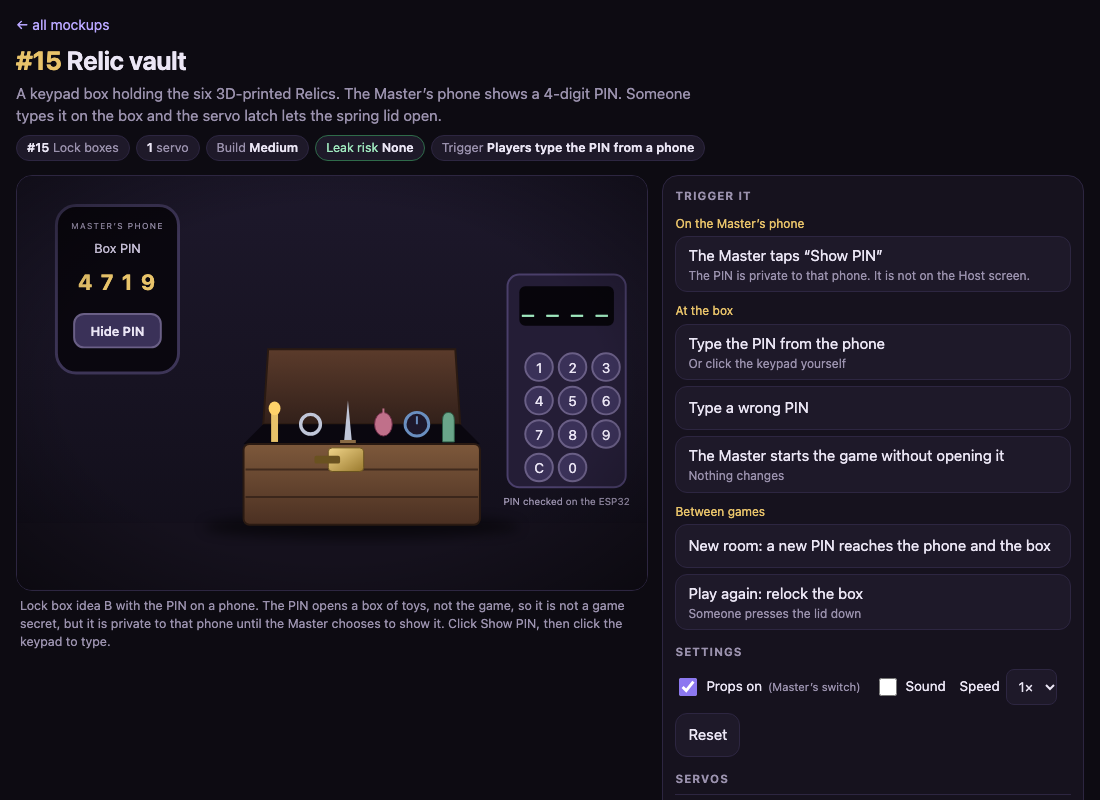
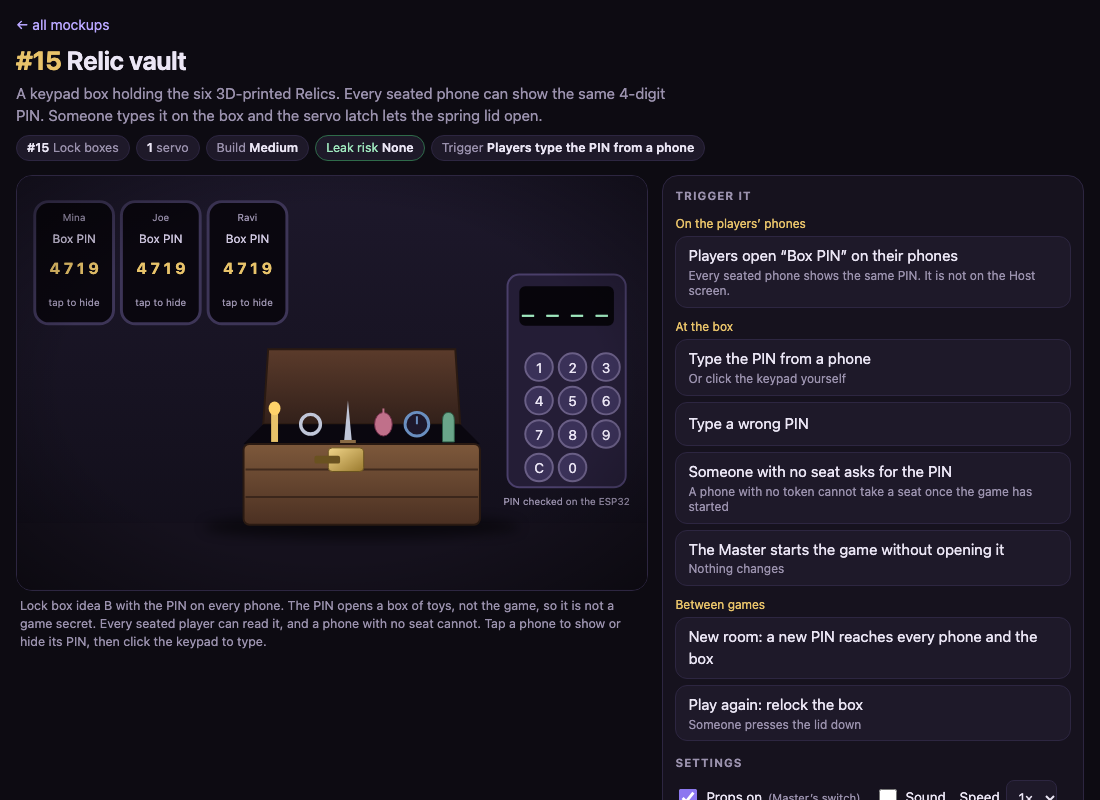
Prop mockups: relic vault PIN on every seated phone
The #15 relic vault now shows the same box PIN on every seated phone, typed on
the keypad on the box, instead of on the Master's phone only. A phone with no
seat gets no PIN (a phone without a token cannot take a seat once the game has
started). The 3D brief, the ideas list and the README say the same, and the
open question about the PIN is closed in the brief. Gallery and screenshots
rebuilt.

diff --git a/tools/prop-mockups/index.html b/tools/prop-mockups/index.html
@@ -1,2 +1,2 @@
 <!doctype html>
-<html lang="en"><head><meta charset="utf-8"><meta name="viewport" content="width=device-width,initial-scale=1"><title>Hauntology prop mockups</title><style>:root{--bg:#0d0b12;--panel:#16121e;--line:#2d2641;--text:#ebe6f5;--mute:#9b92ae;--ghost:#b9a7ff;--gold:#e8c36a}*{box-sizing:border-box}body{margin:0;background:var(--bg);color:var(--text);font:15px/1.45 -apple-system,BlinkMacSystemFont,"Segoe UI",Roboto,Helvetica,Arial,sans-serif}.w{max-width:1180px;margin:0 auto;padding:20px 16px 60px}h1{margin:0 0 4px;font-size:28px}h2{margin:26px 0 10px;font-size:13px;letter-spacing:.09em;text-transform:uppercase;color:var(--mute)}.lead{color:var(--mute);max-width:75ch;margin:0 0 12px}button{font:inherit;color:var(--text);background:var(--panel);border:1px solid var(--line);border-radius:12px;padding:8px 14px;min-height:44px;cursor:pointer}button:hover{border-color:var(--ghost)}.grid{display:grid;grid-template-columns:repeat(auto-fill,minmax(270px,1fr));gap:12px}.c{display:block;background:var(--panel);border:1px solid var(--line);border-radius:14px;overflow:hidden;color:inherit;text-decoration:none}.c:hover{border-color:var(--ghost)}.c img,.ph{display:block;width:100%;aspect-ratio:11/8;object-fit:cover;background:#100d17}.b{padding:10px 12px 12px}.b h3{margin:0 0 4px;font-size:16px}.b h3 span{color:var(--gold)}.b p{margin:0 0 8px;color:var(--mute);font-size:13.5px}.t{display:flex;gap:6px;flex-wrap:wrap}.t i{font-style:normal;font-size:12px;padding:2px 8px;border-radius:99px;border:1px solid var(--line);color:var(--mute)}.t i.none{border-color:#2f6b4a;color:#9fe8be}.t i.low{border-color:#7a6a2e;color:#f0d98a}.t i.high{border-color:#8a3a3a;color:#ffb0b0}</style></head><body><div class="w"><h1>Hauntology prop mockups</h1><p class="lead">Each page is standalone: open it, press the buttons on the right, and watch what the ESP32 would do. These are drawings with the game rules built in. Nothing here is real hardware, and nothing is connected to the game.</p><button id="s">Sort the props by my rank</button><h2>Props</h2><div class="grid" data-g="Props"><a class="c" data-rank="2" data-num="1" href="mockups/01-ghost-in-box.html"><img loading="lazy" alt="" src="shots/01-ghost-in-box.png"><div class="b"><h3><span>#1</span> Ghost in the box</h3><p>A ghost pops out of a box when a Haunt Event fires. One servo moves a lever: first the lid, then the ghost. The lid cracks open while a Poltergeist chooses.</p><div class="t"><i>rank 2</i><i>1 servo</i><i class="none">leak None</i></div></div></a><a class="c" data-rank="1" data-num="3" href="mockups/03-haunt-needle.html"><img loading="lazy" alt="" src="shots/03-haunt-needle.png"><div class="b"><h3><span>#3</span> Haunt needle</h3><p>A gauge needle shows the Haunt. It steps up with an overshoot, shakes at 3, 6 and 9, and pins at the maximum. State drives the needle, so it survives a Wi-Fi drop.</p><div class="t"><i>rank 1</i><i>1 servo</i><i class="none">leak None</i></div></div></a><a class="c" data-rank="5" data-num="5" href="mockups/05-haunting-flipper.html"><img loading="lazy" alt="" src="shots/05-haunting-flipper.png"><div class="b"><h3><span>#5</span> Haunting flipper</h3><p>Each seat has a pawn on a flap. When an Accusation is sealed an envelope appears. At the Round-end reveal, every wrong one flips to its ghost side. The player stays in the game.</p><div class="t"><i>rank 5</i><i>6 servos</i><i class="none">leak None</i></div></div></a><a class="c" data-rank="3" data-num="9" href="mockups/09-curtain-reveal.html"><img loading="lazy" alt="" src="shots/09-curtain-reveal.png"><div class="b"><h3><span>#9</span> Curtain reveal</h3><p>A small stage curtain opens when the game ends and reveals the Solution on a little screen. One servo pulls both panels with a thread loop. Switch to the backstage view to see the build.</p><div class="t"><i>rank 3</i><i>1 servo</i><i class="none">leak None</i></div></div></a><a class="c" data-rank="4" data-num="12" href="mockups/12-rattle-chandelier.html"><img loading="lazy" alt="" src="shots/12-rattle-chandelier.png"><div class="b"><h3><span>#12</span> Rattle prop: bats</h3><p>A hanging prop moves when a player who joined the haunting shakes their phone. The number of Rattles in a Turn picks a creak, a wind or a rumble. Bats are the pick. The chandelier and the doll are in the select only to compare.</p><div class="t"><i>rank 4</i><i>1 servo</i><i class="none">leak None</i></div></div></a></div><h2>Lock boxes</h2><div class="grid" data-g="Lock boxes"><a class="c" data-rank="99" data-num="15" href="mockups/15-relic-vault.html"><img loading="lazy" alt="" src="shots/15-relic-vault.png"><div class="b"><h3><span>#15</span> Relic vault</h3><p>A keypad box holding the six 3D-printed Relics. The Master’s phone shows a 4-digit PIN. Someone types it on the box and the servo latch lets the spring lid open.</p><div class="t"><i>1 servo</i><i class="none">leak None</i></div></div></a></div><h2>Puzzle inputs</h2><div class="grid" data-g="Puzzle inputs"><a class="c" data-rank="99" data-num="20" href="mockups/20-cut-wires.html"><img loading="lazy" alt="" src="shots/20-cut-wires.png"><div class="b"><h3><span>#20</span> Cut wires board</h3><p>Five real coloured wires and five numbered terminals for the Cut wires puzzle. The phone shows the fuse box seen earlier. The player drags each plug to a terminal and presses Set.</p><div class="t"><i>0 servos</i><i class="low">leak Low</i></div></div></a></div><script>var b=document.getElementById("s"),by="num";b.onclick=function(){by=by==="num"?"rank":"num";b.textContent=by==="num"?"Sort the props by my rank":"Sort the props by number";var g=document.querySelector('[data-g="Props"]');if(!g)return;Array.prototype.slice.call(g.children).sort(function(x,y){return x.dataset[by]-y.dataset[by]}).forEach(function(c){g.appendChild(c)})}</script></div></body></html>
+<html lang="en"><head><meta charset="utf-8"><meta name="viewport" content="width=device-width,initial-scale=1"><title>Hauntology prop mockups</title><style>:root{--bg:#0d0b12;--panel:#16121e;--line:#2d2641;--text:#ebe6f5;--mute:#9b92ae;--ghost:#b9a7ff;--gold:#e8c36a}*{box-sizing:border-box}body{margin:0;background:var(--bg);color:var(--text);font:15px/1.45 -apple-system,BlinkMacSystemFont,"Segoe UI",Roboto,Helvetica,Arial,sans-serif}.w{max-width:1180px;margin:0 auto;padding:20px 16px 60px}h1{margin:0 0 4px;font-size:28px}h2{margin:26px 0 10px;font-size:13px;letter-spacing:.09em;text-transform:uppercase;color:var(--mute)}.lead{color:var(--mute);max-width:75ch;margin:0 0 12px}button{font:inherit;color:var(--text);background:var(--panel);border:1px solid var(--line);border-radius:12px;padding:8px 14px;min-height:44px;cursor:pointer}button:hover{border-color:var(--ghost)}.grid{display:grid;grid-template-columns:repeat(auto-fill,minmax(270px,1fr));gap:12px}.c{display:block;background:var(--panel);border:1px solid var(--line);border-radius:14px;overflow:hidden;color:inherit;text-decoration:none}.c:hover{border-color:var(--ghost)}.c img,.ph{display:block;width:100%;aspect-ratio:11/8;object-fit:cover;background:#100d17}.b{padding:10px 12px 12px}.b h3{margin:0 0 4px;font-size:16px}.b h3 span{color:var(--gold)}.b p{margin:0 0 8px;color:var(--mute);font-size:13.5px}.t{display:flex;gap:6px;flex-wrap:wrap}.t i{font-style:normal;font-size:12px;padding:2px 8px;border-radius:99px;border:1px solid var(--line);color:var(--mute)}.t i.none{border-color:#2f6b4a;color:#9fe8be}.t i.low{border-color:#7a6a2e;color:#f0d98a}.t i.high{border-color:#8a3a3a;color:#ffb0b0}</style></head><body><div class="w"><h1>Hauntology prop mockups</h1><p class="lead">Each page is standalone: open it, press the buttons on the right, and watch what the ESP32 would do. These are drawings with the game rules built in. Nothing here is real hardware, and nothing is connected to the game.</p><button id="s">Sort the props by my rank</button><h2>Props</h2><div class="grid" data-g="Props"><a class="c" data-rank="2" data-num="1" href="mockups/01-ghost-in-box.html"><img loading="lazy" alt="" src="shots/01-ghost-in-box.png"><div class="b"><h3><span>#1</span> Ghost in the box</h3><p>A ghost pops out of a box when a Haunt Event fires. One servo moves a lever: first the lid, then the ghost. The lid cracks open while a Poltergeist chooses.</p><div class="t"><i>rank 2</i><i>1 servo</i><i class="none">leak None</i></div></div></a><a class="c" data-rank="1" data-num="3" href="mockups/03-haunt-needle.html"><img loading="lazy" alt="" src="shots/03-haunt-needle.png"><div class="b"><h3><span>#3</span> Haunt needle</h3><p>A gauge needle shows the Haunt. It steps up with an overshoot, shakes at 3, 6 and 9, and pins at the maximum. State drives the needle, so it survives a Wi-Fi drop.</p><div class="t"><i>rank 1</i><i>1 servo</i><i class="none">leak None</i></div></div></a><a class="c" data-rank="5" data-num="5" href="mockups/05-haunting-flipper.html"><img loading="lazy" alt="" src="shots/05-haunting-flipper.png"><div class="b"><h3><span>#5</span> Haunting flipper</h3><p>Each seat has a pawn on a flap. When an Accusation is sealed an envelope appears. At the Round-end reveal, every wrong one flips to its ghost side. The player stays in the game.</p><div class="t"><i>rank 5</i><i>6 servos</i><i class="none">leak None</i></div></div></a><a class="c" data-rank="3" data-num="9" href="mockups/09-curtain-reveal.html"><img loading="lazy" alt="" src="shots/09-curtain-reveal.png"><div class="b"><h3><span>#9</span> Curtain reveal</h3><p>A small stage curtain opens when the game ends and reveals the Solution on a little screen. One servo pulls both panels with a thread loop. Switch to the backstage view to see the build.</p><div class="t"><i>rank 3</i><i>1 servo</i><i class="none">leak None</i></div></div></a><a class="c" data-rank="4" data-num="12" href="mockups/12-rattle-chandelier.html"><img loading="lazy" alt="" src="shots/12-rattle-chandelier.png"><div class="b"><h3><span>#12</span> Rattle prop: bats</h3><p>A hanging prop moves when a player who joined the haunting shakes their phone. The number of Rattles in a Turn picks a creak, a wind or a rumble. Bats are the pick. The chandelier and the doll are in the select only to compare.</p><div class="t"><i>rank 4</i><i>1 servo</i><i class="none">leak None</i></div></div></a></div><h2>Lock boxes</h2><div class="grid" data-g="Lock boxes"><a class="c" data-rank="99" data-num="15" href="mockups/15-relic-vault.html"><img loading="lazy" alt="" src="shots/15-relic-vault.png"><div class="b"><h3><span>#15</span> Relic vault</h3><p>A keypad box holding the six 3D-printed Relics. Every seated phone can show the same 4-digit PIN. Someone types it on the box and the servo latch lets the spring lid open.</p><div class="t"><i>1 servo</i><i class="none">leak None</i></div></div></a></div><h2>Puzzle inputs</h2><div class="grid" data-g="Puzzle inputs"><a class="c" data-rank="99" data-num="20" href="mockups/20-cut-wires.html"><img loading="lazy" alt="" src="shots/20-cut-wires.png"><div class="b"><h3><span>#20</span> Cut wires board</h3><p>Five real coloured wires and five numbered terminals for the Cut wires puzzle. The phone shows the fuse box seen earlier. The player drags each plug to a terminal and presses Set.</p><div class="t"><i>0 servos</i><i class="low">leak Low</i></div></div></a></div><script>var b=document.getElementById("s"),by="num";b.onclick=function(){by=by==="num"?"rank":"num";b.textContent=by==="num"?"Sort the props by my rank":"Sort the props by number";var g=document.querySelector('[data-g="Props"]');if(!g)return;Array.prototype.slice.call(g.children).sort(function(x,y){return x.dataset[by]-y.dataset[by]}).forEach(function(c){g.appendChild(c)})}</script></div></body></html>

diff --git a/tools/prop-mockups/mockups/15-relic-vault.html b/tools/prop-mockups/mockups/15-relic-vault.html
@@ -405,6 +405,7 @@ svg text{font-family:-apple-system,BlinkMacSystemFont,"Segoe UI",Roboto,Helvetic
 const kx = (i) => 530 + (i % 3) * 34, ky = (i) => 186 + Math.floor(i / 3) * 34;
 const lerp = (a, b, t) => a + (b - a) * t;
 const poly = (t) => '250,252 450,252 ' + lerp(470, 445, t).toFixed(1) + ',' + lerp(272, 176, t).toFixed(1) + ' ' + lerp(230, 255, t).toFixed(1) + ',' + lerp(272, 176, t).toFixed(1);
+const PHONES = [['Mina', 18], ['Joe', 106], ['Ravi', 194]];
 async function press(x, d) {
   const s = x.state;
   if (s.open || s.busy) return;
@@ -425,16 +426,16 @@ const typeCode = async (x, code) => { for (const d of code) { await press(x, d);
 Mock({
   num: 15, title: 'Relic vault', group: 'Lock boxes', leak: 'None', effort: 'Medium',
   trigger: 'Players type the PIN from a phone',
-  summary: 'A keypad box holding the six 3D-printed Relics. The Master’s phone shows a 4-digit PIN. Someone types it on the box and the servo latch lets the spring lid open.',
-  stageNote: 'Lock box idea B with the PIN on a phone. The PIN opens a box of toys, not the game, so it is not a game secret, but it is private to that phone until the Master chooses to show it. Click Show PIN, then click the keypad to type.',
+  summary: 'A keypad box holding the six 3D-printed Relics. Every seated phone can show the same 4-digit PIN. Someone types it on the box and the servo latch lets the spring lid open.',
+  stageNote: 'Lock box idea B with the PIN on every phone. The PIN opens a box of toys, not the game, so it is not a game secret. Every seated player can read it, and a phone with no seat cannot. Tap a phone to show or hide its PIN, then click the keypad to type.',
   servos: { latch: { label: 'Latch servo', rest: 0, max: 90 } },
   svg: `
     <rect x="0" y="352" width="640" height="68" fill="#15111d"/>
-    <rect x="40" y="30" width="124" height="170" rx="20" fill="#0a070f" stroke="#3d3557" stroke-width="3"/>
-    <text x="102" y="54" text-anchor="middle" font-size="8.5" fill="#9b92ae" letter-spacing="1.2">MASTER’S PHONE</text>
-    <text x="102" y="78" text-anchor="middle" font-size="13" fill="#cfc7e0">Box PIN</text>
-    <text id="v15code" x="102" y="116" text-anchor="middle" font-size="22" fill="#e8c36a" font-weight="700" letter-spacing="2">• • • •</text>
-    <g id="v15show" style="cursor:pointer"><rect x="58" y="140" width="88" height="34" rx="10" fill="#3a3158" stroke="#6a5f86" stroke-width="2"/><text id="v15showt" x="102" y="162" text-anchor="middle" font-size="13" fill="#ebe6f5" font-weight="600" pointer-events="none">Show PIN</text></g>
+    ${PHONES.map((p, i) => `<g id="v15p${i}" style="cursor:pointer"><rect x="${p[1]}" y="26" width="80" height="124" rx="14" fill="#0a070f" stroke="#3d3557" stroke-width="3"/>
+      <text x="${p[1] + 40}" y="46" text-anchor="middle" font-size="10" fill="#9b92ae" pointer-events="none">${p[0]}</text>
+      <text x="${p[1] + 40}" y="68" text-anchor="middle" font-size="12" fill="#cfc7e0" pointer-events="none">Box PIN</text>
+      <text id="v15code${i}" x="${p[1] + 40}" y="100" text-anchor="middle" font-size="16" fill="#e8c36a" font-weight="700" pointer-events="none">• • • •</text>
+      <text id="v15tap${i}" x="${p[1] + 40}" y="132" text-anchor="middle" font-size="10" fill="#9b92ae" pointer-events="none">tap to show</text></g>`).join('')}
     <ellipse cx="350" cy="356" rx="160" ry="12" fill="#000" opacity=".5" filter="url(#blur6)"/>
     <polygon id="v15lidB" fill="url(#gWoodD)" stroke="#2a1a12" stroke-width="2" style="display:none"/>
     <polygon points="250,252 450,252 470,272 230,272" fill="#0a070f"/>
@@ -458,10 +459,10 @@ Mock({
     ${KEYS.map((k, i) => k === '' ? '' : `<g id="v15k_${k}" style="cursor:pointer"><circle cx="${kx(i)}" cy="${ky(i) + 8}" r="14" fill="#3a3158" stroke="#6a5f86" stroke-width="2"/><text x="${kx(i)}" y="${ky(i) + 14}" text-anchor="middle" font-size="14" fill="#ebe6f5" pointer-events="none">${k}</text></g>`).join('')}
     <text x="558" y="334" text-anchor="middle" font-size="10" fill="#9b92ae">PIN checked on the ESP32</text>
     <text id="v15wrong" x="558" y="348" text-anchor="middle" font-size="10" fill="#9b92ae"></text>`,
-  state: () => ({ code: '4719', shown: false, entry: '', open: false, busy: false, err: 0, wrong: 0 }),
+  state: () => ({ code: '4719', shown: [false, false, false], entry: '', open: false, busy: false, err: 0, wrong: 0 }),
   init(s, X) {
     KEYS.forEach((k) => { if (k) X.el('v15k_' + k).addEventListener('click', () => X.run((x) => press(x, k), { queue: false })); });
-    X.el('v15show').addEventListener('click', () => X.run(async (x) => { x.state.shown = !x.state.shown; if (x.state.shown) x.priv('The PIN is on that phone only. It is not on the Host screen.'); }, { queue: false }));
+    PHONES.forEach((p, i) => X.el('v15p' + i).addEventListener('click', () => X.run(async (x) => { x.state.shown[i] = !x.state.shown[i]; }, { queue: false })));
   },
   render(a, s, X) {
     const t = X.clamp((a.latch - 45) / 45, 0, 1), pts = poly(t);
@@ -469,25 +470,28 @@ Mock({
     X.show('v15lidB', t > 0.55); X.show('v15lidF', t <= 0.55);
     X.op('v15clasp', (1 - t * 2 > 0 ? 1 - t * 2 : 0).toFixed(2)); X.op('v15relics', t.toFixed(2));
     X.tr('v15bolt', -(a.latch / 90) * 20, 0);
-    X.txt('v15code', s.shown ? s.code.split('').join(' ') : '• • • •');
-    X.txt('v15showt', s.shown ? 'Hide PIN' : 'Show PIN');
+    PHONES.forEach((p, i) => {
+      X.txt('v15code' + i, s.shown[i] ? s.code.split('').join(' ') : '• • • •');
+      X.txt('v15tap' + i, s.shown[i] ? 'tap to hide' : 'tap to show');
+    });
     X.txt('v15disp', s.err ? 'WRONG' : s.entry.padEnd(4, '_').split('').join(' '));
     X.fill('v15disp', s.err ? '#ff7a7a' : '#9fe8be');
     X.txt('v15wrong', s.wrong ? 'wrong PINs so far: ' + s.wrong : '');
   },
   events: [
-    { id: 'show', group: 'On the Master’s phone', label: 'The Master taps “Show PIN”', sub: 'The PIN is private to that phone. It is not on the Host screen.', run: async (x) => { x.state.shown = true; x.priv('The Room created this PIN when the room opened and sent it to the box and to the Master’s phone only.'); } },
-    { id: 'type', group: 'At the box', label: 'Type the PIN from the phone', sub: 'Or click the keypad yourself', run: async (x) => { x.state.shown = true; await typeCode(x, x.state.code); } },
+    { id: 'show', group: 'On the players’ phones', label: 'Players open “Box PIN” on their phones', sub: 'Every seated phone shows the same PIN. It is not on the Host screen.', run: async (x) => { x.state.shown = [true, true, true]; x.note('The Room made this PIN when the room opened and sent it to the box and to every seated phone.'); } },
+    { id: 'type', group: 'At the box', label: 'Type the PIN from a phone', sub: 'Or click the keypad yourself', run: async (x) => { x.state.shown = [true, true, true]; await typeCode(x, x.state.code); } },
     { id: 'wrong', label: 'Type a wrong PIN', run: (x) => typeCode(x, '0000') },
+    { id: 'late', label: 'Someone with no seat asks for the PIN', sub: 'A phone with no token cannot take a seat once the game has started', run: async (x) => { x.note('No seat means no PIN card. The PIN reaches seated phones only.'); } },
     { id: 'start', label: 'The Master starts the game without opening it', sub: 'Nothing changes', run: async (x) => { x.pub('The Master started the game.'); x.note('The box is garnish. The game never waits for it and works with no printer.'); } },
-    { id: 'new', group: 'Between games', label: 'New room: a new PIN reaches the phone and the box', run: async (x) => { const s = x.state; s.code = String(Math.floor(1000 + Math.random() * 9000)); s.wrong = 0; s.shown = false; x.priv('New PIN sent to the box and the Master’s phone.'); if (s.open) { s.open = false; await x.move('latch', 0, 900); } } },
+    { id: 'new', group: 'Between games', label: 'New room: a new PIN reaches every phone and the box', run: async (x) => { const s = x.state; s.code = String(Math.floor(1000 + Math.random() * 9000)); s.wrong = 0; s.shown = [false, false, false]; x.note('New PIN sent to the box and to every seated phone.'); if (s.open) { s.open = false; await x.move('latch', 0, 900); } } },
     { id: 'again', label: 'Play again: relock the box', sub: 'Someone presses the lid down', run: async (x) => { x.pub('New game.'); x.state.open = false; await x.move('latch', 0, 900); } }
   ],
-  listens: ['A PIN the Room creates for the room and sends to the box and to the Master’s phone', 'Play again (relock)'],
+  listens: ['A PIN the Room creates for the room and sends to the box and to every seated phone', 'Play again (relock)'],
   never: ['Any game secret: the PIN opens a box of toys, not the game', 'Anything about the Solution, a Hand or a Residue position'],
-  parts: '1 servo as a latch, a spring-loaded lid hinged at the back, a 3x4 keypad on 7 GPIO pins, a 4-digit display (optional). The 6 printed Relics sit inside. The Room makes the PIN when the room opens and sends it to the box over Wi-Fi and to the Master’s phone. The box checks the typed digits itself, so it keeps working if the Wi-Fi drops afterwards. It never gates the game.',
-  spec: ['party-mode: the Master’s menu holds the room controls', 'party-mode intro: relics can be 3D printed, the mode needs no printer'],
-  ask: ['PIN on the Master’s phone only, or on every player’s phone?', 'Or should the phone send the PIN straight to the box, so the box needs no keypad?', 'Lock the keypad for 10 s after 3 wrong PINs, or never?'],
+  parts: '1 servo as a latch, a spring-loaded lid hinged at the back, a 3x4 keypad on 7 GPIO pins, a 4-digit display (optional). The 6 printed Relics sit inside. The Room makes the PIN when the room opens and sends it to the box over Wi-Fi and to every seated phone (a "Box PIN" card in the menu). The box checks the typed digits itself, so it keeps working if the Wi-Fi drops afterwards. It never gates the game.',
+  spec: ['party-mode: a phone without a token cannot take a seat after the game has started (1.4)', 'party-mode intro: relics can be 3D printed, the mode needs no printer'],
+  ask: ['Should the "Box PIN" card be in the lobby only, or also in the menu during play?', 'Or should a phone send the PIN straight to the box, so the box needs no keypad?', 'Lock the keypad for 10 s after 3 wrong PINs, or never?'],
   shot: { before: ['show'], event: 'type', wait: 3300 }
 });
 </script></body></html>

diff --git a/tools/prop-mockups/src/scenes/15-relic-vault.js b/tools/prop-mockups/src/scenes/15-relic-vault.js
@@ -2,6 +2,7 @@ const KEYS = ['1', '2', '3', '4', '5', '6', '7', '8', '9', 'C', '0', ''];
 const kx = (i) => 530 + (i % 3) * 34, ky = (i) => 186 + Math.floor(i / 3) * 34;
 const lerp = (a, b, t) => a + (b - a) * t;
 const poly = (t) => '250,252 450,252 ' + lerp(470, 445, t).toFixed(1) + ',' + lerp(272, 176, t).toFixed(1) + ' ' + lerp(230, 255, t).toFixed(1) + ',' + lerp(272, 176, t).toFixed(1);
+const PHONES = [['Mina', 18], ['Joe', 106], ['Ravi', 194]];
 async function press(x, d) {
   const s = x.state;
   if (s.open || s.busy) return;
@@ -22,16 +23,16 @@ const typeCode = async (x, code) => { for (const d of code) { await press(x, d);
 Mock({
   num: 15, title: 'Relic vault', group: 'Lock boxes', leak: 'None', effort: 'Medium',
   trigger: 'Players type the PIN from a phone',
-  summary: 'A keypad box holding the six 3D-printed Relics. The Master’s phone shows a 4-digit PIN. Someone types it on the box and the servo latch lets the spring lid open.',
-  stageNote: 'Lock box idea B with the PIN on a phone. The PIN opens a box of toys, not the game, so it is not a game secret, but it is private to that phone until the Master chooses to show it. Click Show PIN, then click the keypad to type.',
+  summary: 'A keypad box holding the six 3D-printed Relics. Every seated phone can show the same 4-digit PIN. Someone types it on the box and the servo latch lets the spring lid open.',
+  stageNote: 'Lock box idea B with the PIN on every phone. The PIN opens a box of toys, not the game, so it is not a game secret. Every seated player can read it, and a phone with no seat cannot. Tap a phone to show or hide its PIN, then click the keypad to type.',
   servos: { latch: { label: 'Latch servo', rest: 0, max: 90 } },
   svg: `
     <rect x="0" y="352" width="640" height="68" fill="#15111d"/>
-    <rect x="40" y="30" width="124" height="170" rx="20" fill="#0a070f" stroke="#3d3557" stroke-width="3"/>
-    <text x="102" y="54" text-anchor="middle" font-size="8.5" fill="#9b92ae" letter-spacing="1.2">MASTER’S PHONE</text>
-    <text x="102" y="78" text-anchor="middle" font-size="13" fill="#cfc7e0">Box PIN</text>
-    <text id="v15code" x="102" y="116" text-anchor="middle" font-size="22" fill="#e8c36a" font-weight="700" letter-spacing="2">• • • •</text>
-    <g id="v15show" style="cursor:pointer"><rect x="58" y="140" width="88" height="34" rx="10" fill="#3a3158" stroke="#6a5f86" stroke-width="2"/><text id="v15showt" x="102" y="162" text-anchor="middle" font-size="13" fill="#ebe6f5" font-weight="600" pointer-events="none">Show PIN</text></g>
+    ${PHONES.map((p, i) => `<g id="v15p${i}" style="cursor:pointer"><rect x="${p[1]}" y="26" width="80" height="124" rx="14" fill="#0a070f" stroke="#3d3557" stroke-width="3"/>
+      <text x="${p[1] + 40}" y="46" text-anchor="middle" font-size="10" fill="#9b92ae" pointer-events="none">${p[0]}</text>
+      <text x="${p[1] + 40}" y="68" text-anchor="middle" font-size="12" fill="#cfc7e0" pointer-events="none">Box PIN</text>
+      <text id="v15code${i}" x="${p[1] + 40}" y="100" text-anchor="middle" font-size="16" fill="#e8c36a" font-weight="700" pointer-events="none">• • • •</text>
+      <text id="v15tap${i}" x="${p[1] + 40}" y="132" text-anchor="middle" font-size="10" fill="#9b92ae" pointer-events="none">tap to show</text></g>`).join('')}
     <ellipse cx="350" cy="356" rx="160" ry="12" fill="#000" opacity=".5" filter="url(#blur6)"/>
     <polygon id="v15lidB" fill="url(#gWoodD)" stroke="#2a1a12" stroke-width="2" style="display:none"/>
     <polygon points="250,252 450,252 470,272 230,272" fill="#0a070f"/>
@@ -55,10 +56,10 @@ Mock({
     ${KEYS.map((k, i) => k === '' ? '' : `<g id="v15k_${k}" style="cursor:pointer"><circle cx="${kx(i)}" cy="${ky(i) + 8}" r="14" fill="#3a3158" stroke="#6a5f86" stroke-width="2"/><text x="${kx(i)}" y="${ky(i) + 14}" text-anchor="middle" font-size="14" fill="#ebe6f5" pointer-events="none">${k}</text></g>`).join('')}
     <text x="558" y="334" text-anchor="middle" font-size="10" fill="#9b92ae">PIN checked on the ESP32</text>
     <text id="v15wrong" x="558" y="348" text-anchor="middle" font-size="10" fill="#9b92ae"></text>`,
-  state: () => ({ code: '4719', shown: false, entry: '', open: false, busy: false, err: 0, wrong: 0 }),
+  state: () => ({ code: '4719', shown: [false, false, false], entry: '', open: false, busy: false, err: 0, wrong: 0 }),
   init(s, X) {
     KEYS.forEach((k) => { if (k) X.el('v15k_' + k).addEventListener('click', () => X.run((x) => press(x, k), { queue: false })); });
-    X.el('v15show').addEventListener('click', () => X.run(async (x) => { x.state.shown = !x.state.shown; if (x.state.shown) x.priv('The PIN is on that phone only. It is not on the Host screen.'); }, { queue: false }));
+    PHONES.forEach((p, i) => X.el('v15p' + i).addEventListener('click', () => X.run(async (x) => { x.state.shown[i] = !x.state.shown[i]; }, { queue: false })));
   },
   render(a, s, X) {
     const t = X.clamp((a.latch - 45) / 45, 0, 1), pts = poly(t);
@@ -66,24 +67,27 @@ Mock({
     X.show('v15lidB', t > 0.55); X.show('v15lidF', t <= 0.55);
     X.op('v15clasp', (1 - t * 2 > 0 ? 1 - t * 2 : 0).toFixed(2)); X.op('v15relics', t.toFixed(2));
     X.tr('v15bolt', -(a.latch / 90) * 20, 0);
-    X.txt('v15code', s.shown ? s.code.split('').join(' ') : '• • • •');
-    X.txt('v15showt', s.shown ? 'Hide PIN' : 'Show PIN');
+    PHONES.forEach((p, i) => {
+      X.txt('v15code' + i, s.shown[i] ? s.code.split('').join(' ') : '• • • •');
+      X.txt('v15tap' + i, s.shown[i] ? 'tap to hide' : 'tap to show');
+    });
     X.txt('v15disp', s.err ? 'WRONG' : s.entry.padEnd(4, '_').split('').join(' '));
     X.fill('v15disp', s.err ? '#ff7a7a' : '#9fe8be');
     X.txt('v15wrong', s.wrong ? 'wrong PINs so far: ' + s.wrong : '');
   },
   events: [
-    { id: 'show', group: 'On the Master’s phone', label: 'The Master taps “Show PIN”', sub: 'The PIN is private to that phone. It is not on the Host screen.', run: async (x) => { x.state.shown = true; x.priv('The Room created this PIN when the room opened and sent it to the box and to the Master’s phone only.'); } },
-    { id: 'type', group: 'At the box', label: 'Type the PIN from the phone', sub: 'Or click the keypad yourself', run: async (x) => { x.state.shown = true; await typeCode(x, x.state.code); } },
+    { id: 'show', group: 'On the players’ phones', label: 'Players open “Box PIN” on their phones', sub: 'Every seated phone shows the same PIN. It is not on the Host screen.', run: async (x) => { x.state.shown = [true, true, true]; x.note('The Room made this PIN when the room opened and sent it to the box and to every seated phone.'); } },
+    { id: 'type', group: 'At the box', label: 'Type the PIN from a phone', sub: 'Or click the keypad yourself', run: async (x) => { x.state.shown = [true, true, true]; await typeCode(x, x.state.code); } },
     { id: 'wrong', label: 'Type a wrong PIN', run: (x) => typeCode(x, '0000') },
+    { id: 'late', label: 'Someone with no seat asks for the PIN', sub: 'A phone with no token cannot take a seat once the game has started', run: async (x) => { x.note('No seat means no PIN card. The PIN reaches seated phones only.'); } },
     { id: 'start', label: 'The Master starts the game without opening it', sub: 'Nothing changes', run: async (x) => { x.pub('The Master started the game.'); x.note('The box is garnish. The game never waits for it and works with no printer.'); } },
-    { id: 'new', group: 'Between games', label: 'New room: a new PIN reaches the phone and the box', run: async (x) => { const s = x.state; s.code = String(Math.floor(1000 + Math.random() * 9000)); s.wrong = 0; s.shown = false; x.priv('New PIN sent to the box and the Master’s phone.'); if (s.open) { s.open = false; await x.move('latch', 0, 900); } } },
+    { id: 'new', group: 'Between games', label: 'New room: a new PIN reaches every phone and the box', run: async (x) => { const s = x.state; s.code = String(Math.floor(1000 + Math.random() * 9000)); s.wrong = 0; s.shown = [false, false, false]; x.note('New PIN sent to the box and to every seated phone.'); if (s.open) { s.open = false; await x.move('latch', 0, 900); } } },
     { id: 'again', label: 'Play again: relock the box', sub: 'Someone presses the lid down', run: async (x) => { x.pub('New game.'); x.state.open = false; await x.move('latch', 0, 900); } }
   ],
-  listens: ['A PIN the Room creates for the room and sends to the box and to the Master’s phone', 'Play again (relock)'],
+  listens: ['A PIN the Room creates for the room and sends to the box and to every seated phone', 'Play again (relock)'],
   never: ['Any game secret: the PIN opens a box of toys, not the game', 'Anything about the Solution, a Hand or a Residue position'],
-  parts: '1 servo as a latch, a spring-loaded lid hinged at the back, a 3x4 keypad on 7 GPIO pins, a 4-digit display (optional). The 6 printed Relics sit inside. The Room makes the PIN when the room opens and sends it to the box over Wi-Fi and to the Master’s phone. The box checks the typed digits itself, so it keeps working if the Wi-Fi drops afterwards. It never gates the game.',
-  spec: ['party-mode: the Master’s menu holds the room controls', 'party-mode intro: relics can be 3D printed, the mode needs no printer'],
-  ask: ['PIN on the Master’s phone only, or on every player’s phone?', 'Or should the phone send the PIN straight to the box, so the box needs no keypad?', 'Lock the keypad for 10 s after 3 wrong PINs, or never?'],
+  parts: '1 servo as a latch, a spring-loaded lid hinged at the back, a 3x4 keypad on 7 GPIO pins, a 4-digit display (optional). The 6 printed Relics sit inside. The Room makes the PIN when the room opens and sends it to the box over Wi-Fi and to every seated phone (a "Box PIN" card in the menu). The box checks the typed digits itself, so it keeps working if the Wi-Fi drops afterwards. It never gates the game.',
+  spec: ['party-mode: a phone without a token cannot take a seat after the game has started (1.4)', 'party-mode intro: relics can be 3D printed, the mode needs no printer'],
+  ask: ['Should the "Box PIN" card be in the lobby only, or also in the menu during play?', 'Or should a phone send the PIN straight to the box, so the box needs no keypad?', 'Lock the keypad for 10 s after 3 wrong PINs, or never?'],
   shot: { before: ['show'], event: 'type', wait: 3300 }
 });

diff --git a/tools/prop-mockups/README.md b/tools/prop-mockups/README.md
@@ -17,4 +17,4 @@ node tools/prop-mockups/shoot.mjs sheets     # 4-up contact sheets
 
 `shoot.mjs` needs the headless Chrome that Playwright caches under `~/Library/Caches/ms-playwright` (or set `CHROME`).
 
-Seven mockups remain, numbered as they were first drawn (numbers are not reused): 1 ghost in the box, 3 Haunt needle, 5 haunting flipper, 9 curtain reveal, 12 rattle chandelier, 15 relic vault (PIN shown on the Master’s phone) and 20 cut wires board. On 2026-11-15 the owner dropped 2, 4, 6, 7, 8, 10, 11, 13, 14, 16, 17, 18 and 19. A box that opens when a puzzle Lock is solved is not drawn: it would make a solved Lock public, which puzzles 1.2 forbids.
+Seven mockups remain, numbered as they were first drawn (numbers are not reused): 1 ghost in the box, 3 Haunt needle, 5 haunting flipper, 9 curtain reveal, 12 rattle chandelier, 15 relic vault (PIN shown on every seated phone) and 20 cut wires board. On 2026-11-15 the owner dropped 2, 4, 6, 7, 8, 10, 11, 13, 14, 16, 17, 18 and 19. A box that opens when a puzzle Lock is solved is not drawn: it would make a solved Lock public, which puzzles 1.2 forbids.

diff --git a/tools/prop-mockups/3D_BRIEF.md b/tools/prop-mockups/3D_BRIEF.md
@@ -73,8 +73,7 @@ Colours come from the game's own palette (`design/tokens.json`) so the table mat
 1. **Exact models and sizes** of the servo, ESP32 board, 3 x 4 keypad, 1.8 inch screen and LED strip.
 2. **Our printer:** bed size, nozzle and which spools we have.
 3. **#9 screen:** yes or no. A printed card cannot be the Solution, because the box does not know it until the game ends.
-4. **#15 PIN:** Master's phone only or every phone. We assume a keypad on the box.
-5. **Sizes above** are our guess.
+4. **Sizes above** are our guess. (Decided: the #15 PIN is shown on every seated phone and typed on a keypad on the box.)
 
 ## 6. Later (not in the first batch)
 

diff --git a/tools/prop-mockups/IDEAS.md b/tools/prop-mockups/IDEAS.md
@@ -13,7 +13,7 @@ Every prop follows one rule: it reacts only to what the Display shows (the publi
 | 5 | Haunting flipper | Accusations sealed, then wrong ones revealed |
 | 9 | Curtain reveal | The game ends |
 | 12 | Rattle prop: three bats (chosen 2026-11-15; chandelier and doll kept in the mockup to compare) | Rattles (see the creak Cue below) |
-| 15 | Relic vault | A PIN shown on the Master's phone, typed on the box |
+| 15 | Relic vault | A PIN shown on every seated phone, typed on the box |
 | 20 | Cut wires board | The Wires puzzle (a real-button input) |
 
 ## Printed and static pieces (from the game spec and the seven props)
